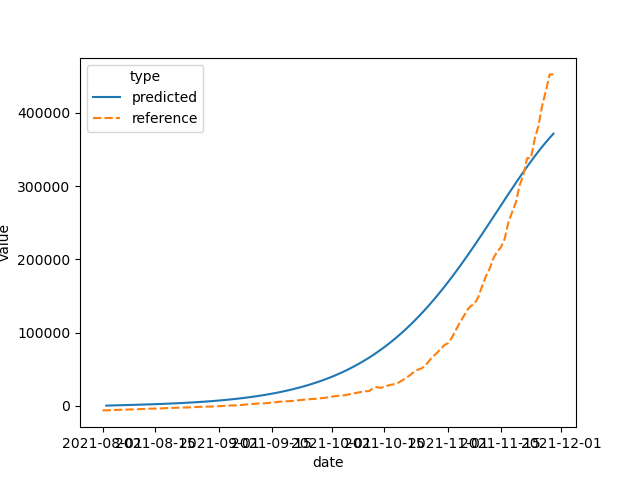
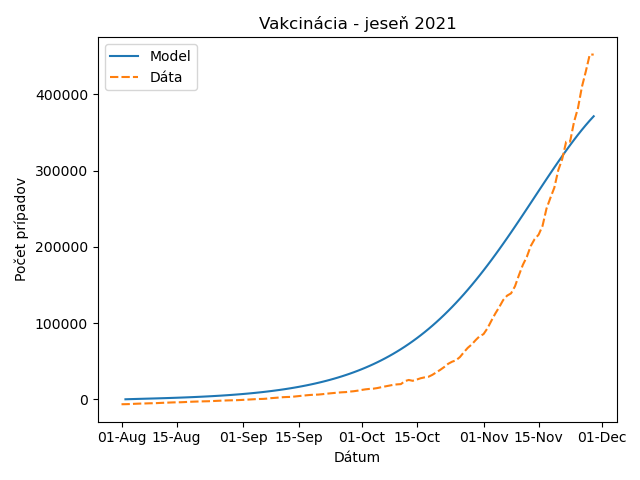
model fitting

diff --git a/plot.py b/plot.py
@@ -3,11 +3,9 @@ import pandas as pd
 import seaborn as sns
 import matplotlib.pyplot as plt
 
-# date_start = "2020-08-01" # 2020 no vaccine fall
-date_start = "2021-08-01"  # 2021 vaccine fall
+from matplotlib import dates
 
-
-def plot_model_output(csv_file, fig_location):
+def plot_model_output(csv_file, fig_location, date_start, title, ylabel):
     df = pd.read_csv(csv_file)
 
     # convert floats to intengers
@@ -20,27 +18,37 @@ def plot_model_output(csv_file, fig_location):
     dfm = df.melt(id_vars=["date"],
                   value_vars=["susceptible", "exposed", "infectious",
                               "quarantined", "recovered", "dead", "vaccinated"],
-                  var_name="compartment")
+                  var_name="Trieda")
+    
+    dfm["Trieda"] = dfm["Trieda"].map(lambda x: x.upper()[0])
 
-    g = sns.lineplot(
+    ax = sns.lineplot(
         data=dfm,
         x="date",
         y="value",
-        hue="compartment"
+        hue="Trieda"
     )
 
-    g.get_figure().savefig(fig_location)
-    g.get_figure().clf()
+    ax.set_title(title)
+
+    ax.set_ylabel(ylabel)
+    ax.set_xlabel("Dátum")
+
+    ax.xaxis.set_major_formatter(dates.DateFormatter("%d-%b"))
+    
+    ax.get_figure().tight_layout()
+    ax.get_figure().savefig(fig_location)
+    ax.get_figure().clf()
 
 
-def plot_comparison(csv_file, fig_location, ref_column, pred_column, ref_offset=0):
+def plot_comparison(csv_file, fig_location, ref_column, pred_column, date_start, title, ylabel, ref_offset=0):
     df_pred = pd.read_csv(csv_file)
 
     df_ref = get_real_dataframe()[["date", ref_column]].copy()
-    df_ref.columns = ["date", "reference"]
+    df_ref.columns = ["date", "Dáta"]
 
     # offset the value
-    df_ref["reference"] = df_ref["reference"] - ref_offset
+    df_ref["Dáta"] = df_ref["Dáta"] - ref_offset
 
     # convert floats to intengers
     df_pred.time = df_pred.time.astype(int)
@@ -52,14 +60,14 @@ def plot_comparison(csv_file, fig_location, ref_column, pred_column, ref_offset=
     df_pred = df_pred[["date", pred_column]].copy()
     df_pred["diff"] = df_pred[pred_column].diff()
     df_pred["diff"] = df_pred["diff"].mask(df_pred["diff"] < 0, 0)
-    df_pred["predicted"] = df_pred["diff"].cumsum()
+    df_pred["Model"] = df_pred["diff"].cumsum()
 
     df_cmp = df_pred.merge(df_ref, on="date", how="left")
     df_cmp = df_cmp.melt(id_vars=["date"],
-                         value_vars=["predicted", "reference"],
+                         value_vars=["Model", "Dáta"],
                          var_name="type")
 
-    g = sns.lineplot(
+    ax = sns.lineplot(
         data=df_cmp,
         x="date",
         y="value",
@@ -67,8 +75,19 @@ def plot_comparison(csv_file, fig_location, ref_column, pred_column, ref_offset=
         hue="type"
     )
 
-    g.get_figure().savefig(fig_location)
-    g.get_figure().clf()
+
+    ax.get_legend().set_title(None)
+
+    ax.set_title(title)
+
+    ax.set_ylabel(ylabel)
+    ax.set_xlabel("Dátum")
+
+    ax.xaxis.set_major_formatter(dates.DateFormatter("%d-%b"))
+
+    ax.get_figure().tight_layout()
+    ax.get_figure().savefig(fig_location)
+    ax.get_figure().clf()
 
 
 def get_real_dataframe(csv_file="data/owid-covid-data.csv"):
@@ -86,42 +105,66 @@ def get_real_dataframe(csv_file="data/owid-covid-data.csv"):
 
 def plot_2021_vaccine():
     template = "out/cr_2021_{}"
+    date_start = "2021-08-01"
 
-    plot_model_output(template.format("vaccine.csv"),
-                      template.format("vaccine.png"))
+    plot_model_output(csv_file=template.format("vaccine.csv"),
+                      fig_location=template.format("vaccine.png"),
+                      ylabel="Počet prípadov",
+                      title="Model - jeseň 2021",
+                      date_start=date_start)
+
     plot_comparison(csv_file=template.format("vaccine.csv"),
                     fig_location=template.format("vaccine_cases.png"),
                     ref_column="total_cases",
                     ref_offset=1_680_000,
-                    pred_column="quarantined"
+                    pred_column="quarantined",
+                    date_start=date_start,
+                    title="Prípady - jeseň 2021",
+                    ylabel="Celkový počet prípadov"
                     )
+
     plot_comparison(csv_file=template.format("vaccine.csv"),
                     fig_location=template.format("vaccine_deaths.png"),
                     ref_column="total_deaths",
                     ref_offset=30_369,
-                    pred_column="dead"
+                    pred_column="dead",
+                    date_start=date_start,
+                    title="Úmrtia - jeseň 2021",
+                    ylabel="Celkový počet úmrtí"
                     )
 
 
 def plot_2020_no_vaccine():
 
     template = "out/cr_2020_no_{}"
+    date_start = "2020-08-01"
 
     plot_model_output(template.format("vaccine.csv"),
-                      template.format("vaccine.png"))
+                      template.format("vaccine.png"),
+                      date_start=date_start,
+                      ylabel="Počet prípadov",
+                      title="Model - jeseň 2020",
+                      )
+    
     plot_comparison(csv_file=template.format("vaccine.csv"),
                     fig_location=template.format("vaccine_cases.png"),
                     ref_column="total_cases",
-                    pred_column="quarantined"
+                    pred_column="quarantined",
+                    date_start=date_start,
+                    title="Prípady - jeseň 2020",
+                    ylabel="Celkový počet prípadov"
                     )
     plot_comparison(csv_file=template.format("vaccine.csv"),
                     fig_location=template.format("vaccine_deaths.png"),
                     ref_column="total_deaths",
-                    pred_column="dead"
+                    pred_column="dead",
+                    date_start=date_start,
+                    title="Úmrtia - jeseň 2020",
+                    ylabel="Celkový počet úmrtí"
                     )
 
 
 if __name__ == "__main__":
-    # plot_2020_no_vaccine()
-    plot_2021_vaccine()
+    plot_2020_no_vaccine()
+    # plot_2021_vaccine()
 # %%

diff --git a/src/cr_2020_no_vaccine.h b/src/cr_2020_no_vaccine.h
@@ -5,17 +5,17 @@
 #define OUT_FILE "out/cr_2020_no_vaccine.csv"
 
 // Initial values
-#define E0 1000    // exposed (infected, but not yet infectious)
-#define I0 1000    // infectious
-#define Q0 500    // quarantined
+#define E0 15000    // exposed (infected, but not yet infectious)
+#define I0 15000    // infectious
+#define Q0 15000    // quarantined
 #define R0 0    // recovered
-#define D0 0    // dead
+#define D0 500    // dead
 #define V0 0   // vaccinated
 #define S0 (10694364 - E0 - I0 - Q0 - V0)   // susceptible
 
 // Model paramters
 #define LAMBDA 453 // new births and residents per unit of time
-#define BETA 0.0000000342 // transmisson rate
+#define BETA 0.0000000348 // transmisson rate
 #define ALPHA 0.000  // vaccination rate
 #define MU 0.0000356    // natural death rate
 #define GAMMA (1.0/5.5)   // incubation period

diff --git a/src/main.cpp b/src/main.cpp
@@ -3,8 +3,8 @@
 #include <simlib.h>
 
 // Header with with model parameters
-// #include "cr_2020_no_vaccine.h"
-#include "cr_2021_vaccine.h"
+#include "cr_2020_no_vaccine.h"
+// #include "cr_2021_vaccine.h"
 
 #define MAX_TIME 120
 
